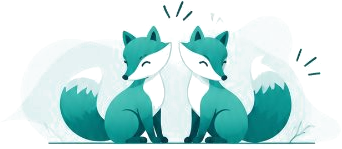
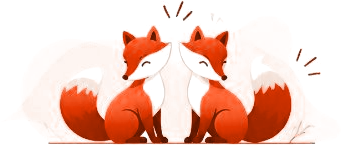
feat: transform transition foxes to vibrant reddish-orange on /questionnaire/complete

diff --git a/src/components/screens/QuestionnaireCompletion.tsx b/src/components/screens/QuestionnaireCompletion.tsx
@@ -21,12 +21,12 @@ export const QuestionnaireCompletion: React.FC<QuestionnaireCompletionProps> = (
         >
           <path
             d="M80 0C140 30 220 50 300 20V0H80Z"
-            fill="#EBF2F4"
+            fill="#FDF2F0"
           />
           <path
             d="M120 0C180 60 250 120 300 160V0H120Z"
-            fill="#A3C4CB"
-            fillOpacity="0.25"
+            fill="#FAD4C0"
+            fillOpacity="0.35"
           />
         </svg>
       </div>
@@ -38,11 +38,11 @@ export const QuestionnaireCompletion: React.FC<QuestionnaireCompletionProps> = (
           <BrandLogo size="md" showSubtitle={true} />
         </div>
 
-        {/* Celebratory Transition Mascot Foxes */}
+        {/* Celebratory Transition Mascot Foxes in Reddish-Orange */}
         <div className="relative w-full max-w-[290px] mx-auto py-1">
           <img
             src="/mascot-foxes-transition.png"
-            alt="Celebrating Foxes"
+            alt="Celebrating Foxes in Reddish-Orange"
             className="w-full h-auto object-contain mx-auto drop-shadow-xs transition-transform duration-500 hover:scale-[1.02]"
           />
         </div>
@@ -50,31 +50,31 @@ export const QuestionnaireCompletion: React.FC<QuestionnaireCompletionProps> = (
         {/* Editorial Headline */}
         <div className="space-y-2 px-2">
           <h1
-            className="text-4xl md:text-5xl font-medium tracking-tight text-[#0B3B3D] leading-[1.12]"
+            className="text-4xl md:text-5xl font-medium tracking-tight text-[#122B32] leading-[1.12]"
             style={{ fontFamily: 'Cormorant Garamond, Playfair Display, serif' }}
           >
             That's a little more<br />about you.
           </h1>
 
-          <p className="text-sm md:text-base text-[#0B3B3D]/80 font-sans font-normal max-w-xs mx-auto leading-relaxed">
+          <p className="text-sm md:text-base text-[#3A4D53] font-sans font-normal max-w-xs mx-auto leading-relaxed">
             Now comes the fun part. Go meet someone new.
           </p>
         </div>
 
         {/* Divider */}
-        <div className="w-24 h-px bg-[#A3C4CB]/60 mx-auto my-1" />
+        <div className="w-24 h-px bg-[#EAD0C3]/70 mx-auto my-1" />
 
-        {/* "Your Human Bingo awaits!" Feature Card */}
-        <div className="p-5 rounded-3xl bg-[#EBF4F5] border border-[#A3C4CB]/40 text-left space-y-3.5 shadow-2xs">
-          <div className="flex items-center gap-2 text-sm font-bold text-[#0B3B3D]">
-            <Sparkles className="w-4 h-4 text-[#E05A47]" />
+        {/* "Your Human Bingo awaits!" Feature Card in Soft Peach/Cream */}
+        <div className="p-5 rounded-3xl bg-[#FDF2F0] border border-[#F3BEB5]/60 text-left space-y-3.5 shadow-2xs">
+          <div className="flex items-center gap-2 text-sm font-bold text-[#122B32]">
+            <Sparkles className="w-4 h-4 text-[#D34E2A]" />
             <span>Your Human Bingo awaits!</span>
           </div>
 
-          <div className="space-y-3 text-xs text-[#0B3B3D]/85">
+          <div className="space-y-3 text-xs text-[#122B32]/90">
             {/* Step 1 */}
             <div className="flex items-start gap-3">
-              <div className="w-7 h-7 rounded-full bg-[#A3C4CB]/30 text-[#E05A47] flex items-center justify-center shrink-0 mt-0.5">
+              <div className="w-7 h-7 rounded-full bg-[#FCEEE8] border border-[#F6DCD1] text-[#D34E2A] flex items-center justify-center shrink-0 mt-0.5 shadow-2xs">
                 <Users className="w-3.5 h-3.5 stroke-[2]" />
               </div>
               <p className="leading-snug pt-0.5">
@@ -84,7 +84,7 @@ export const QuestionnaireCompletion: React.FC<QuestionnaireCompletionProps> = (
 
             {/* Step 2 */}
             <div className="flex items-start gap-3">
-              <div className="w-7 h-7 rounded-full bg-[#A3C4CB]/30 text-[#E05A47] flex items-center justify-center shrink-0 mt-0.5">
+              <div className="w-7 h-7 rounded-full bg-[#FCEEE8] border border-[#F6DCD1] text-[#D34E2A] flex items-center justify-center shrink-0 mt-0.5 shadow-2xs">
                 <Camera className="w-3.5 h-3.5 stroke-[2]" />
               </div>
               <p className="leading-snug pt-0.5">
@@ -94,7 +94,7 @@ export const QuestionnaireCompletion: React.FC<QuestionnaireCompletionProps> = (
 
             {/* Step 3 */}
             <div className="flex items-start gap-3">
-              <div className="w-7 h-7 rounded-full bg-[#A3C4CB]/30 text-[#E05A47] flex items-center justify-center shrink-0 mt-0.5">
+              <div className="w-7 h-7 rounded-full bg-[#FCEEE8] border border-[#F6DCD1] text-[#D34E2A] flex items-center justify-center shrink-0 mt-0.5 shadow-2xs">
                 <Trophy className="w-3.5 h-3.5 stroke-[2]" />
               </div>
               <p className="leading-snug pt-0.5">
@@ -109,14 +109,14 @@ export const QuestionnaireCompletion: React.FC<QuestionnaireCompletionProps> = (
       <div className="w-full pt-6 pb-2 space-y-2 relative z-10">
         <button
           onClick={onStartBingo}
-          className="w-full py-4 px-8 rounded-full bg-[#E05A47] hover:bg-[#C44633] text-white font-medium text-base shadow-lg hover:shadow-xl transition-all duration-200 active:scale-98 flex items-center justify-center gap-2 group cursor-pointer"
+          className="w-full py-4 px-8 rounded-full bg-[#D34E2A] hover:bg-[#BA3F1E] text-white font-medium text-base shadow-[0_8px_20px_rgba(211,78,42,0.28)] hover:shadow-[0_10px_24px_rgba(211,78,42,0.36)] transition-all duration-200 active:scale-98 flex items-center justify-center gap-2 group cursor-pointer"
         >
           <span>Start Human Bingo</span>
           <ArrowRight className="w-4 h-4 transition-transform group-hover:translate-x-1" />
         </button>
       </div>
 
-      {/* Bottom organic wave graphics */}
+      {/* Bottom organic wave graphics in terracotta */}
       <div className="absolute bottom-0 inset-x-0 h-16 pointer-events-none z-0 overflow-hidden">
         <svg
           viewBox="0 0 500 80"
@@ -126,13 +126,13 @@ export const QuestionnaireCompletion: React.FC<QuestionnaireCompletionProps> = (
           className="w-full h-full"
         >
           <path
-            d="M0 40C120 10 240 60 500 20V80H0V40Z"
-            fill="#A3C4CB"
-            fillOpacity="0.4"
+            d="M0 35C140 10 260 55 500 15V80H0V35Z"
+            fill="#FAD4C0"
+            fillOpacity="0.7"
           />
           <path
-            d="M0 55C150 25 320 65 500 45V80H0V55Z"
-            fill="#0B3B3D"
+            d="M0 50C160 25 330 65 500 40V80H0V50Z"
+            fill="#D34E2A"
           />
         </svg>
       </div>
